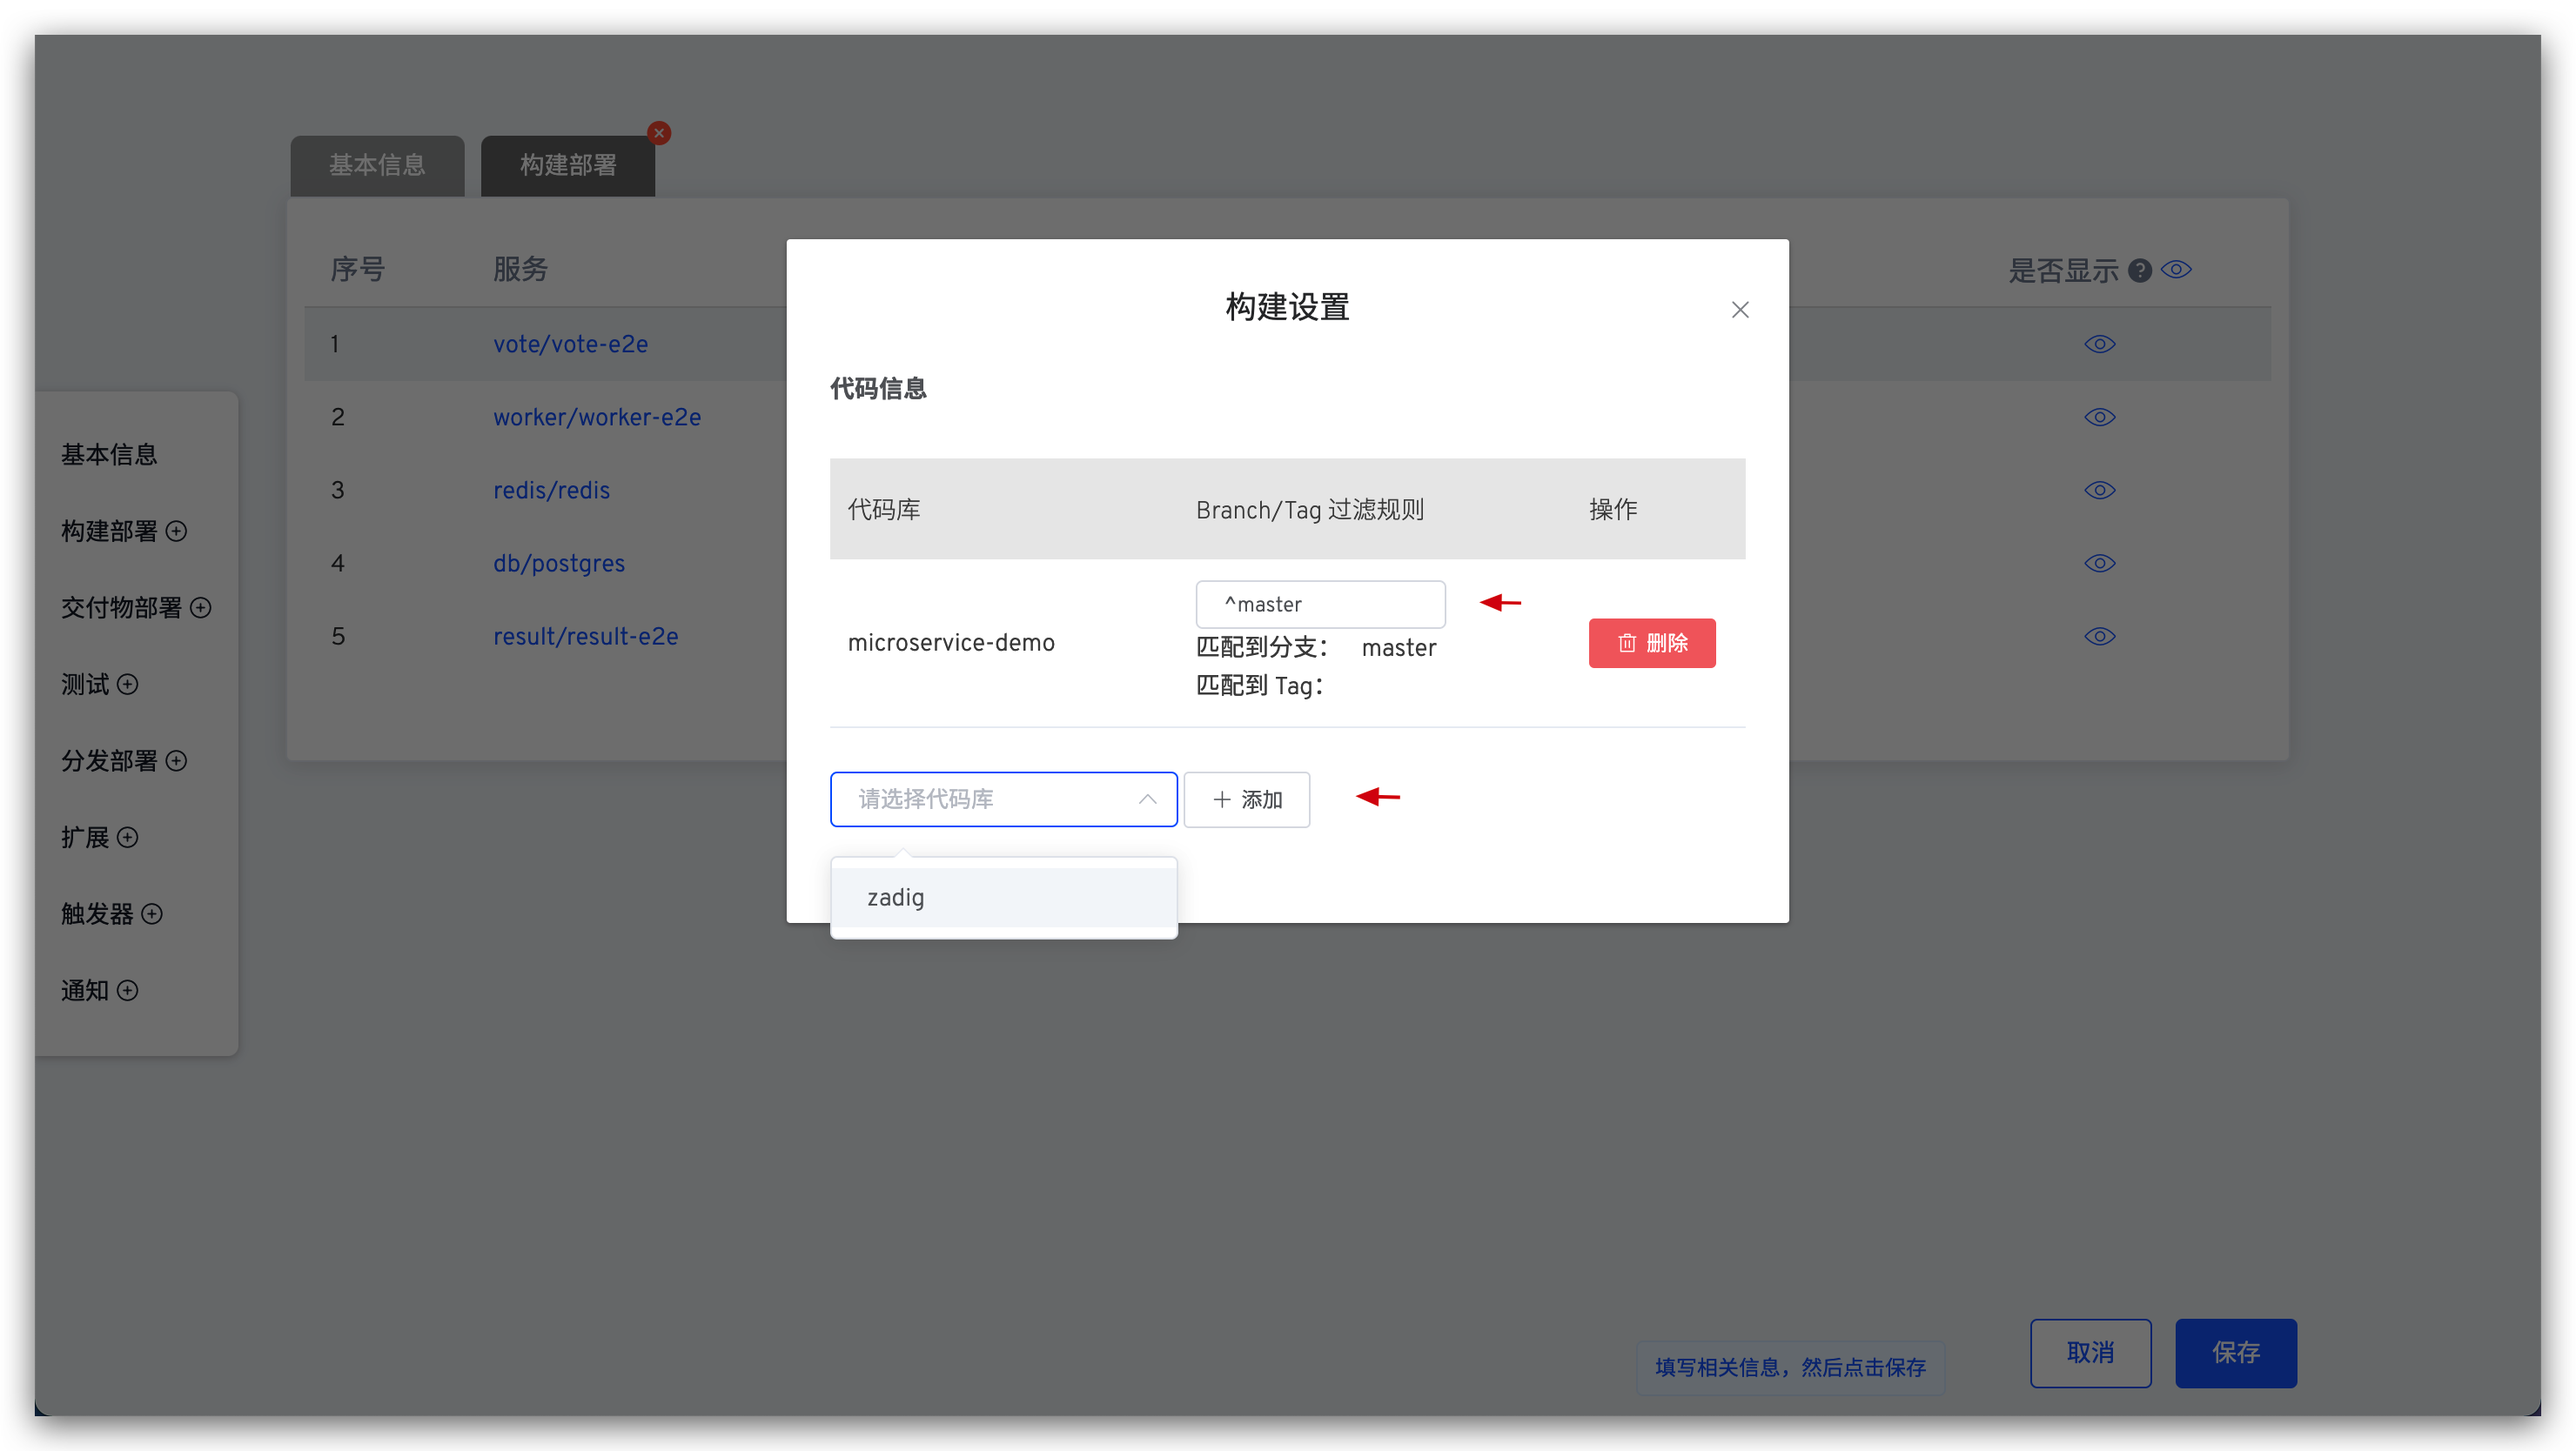
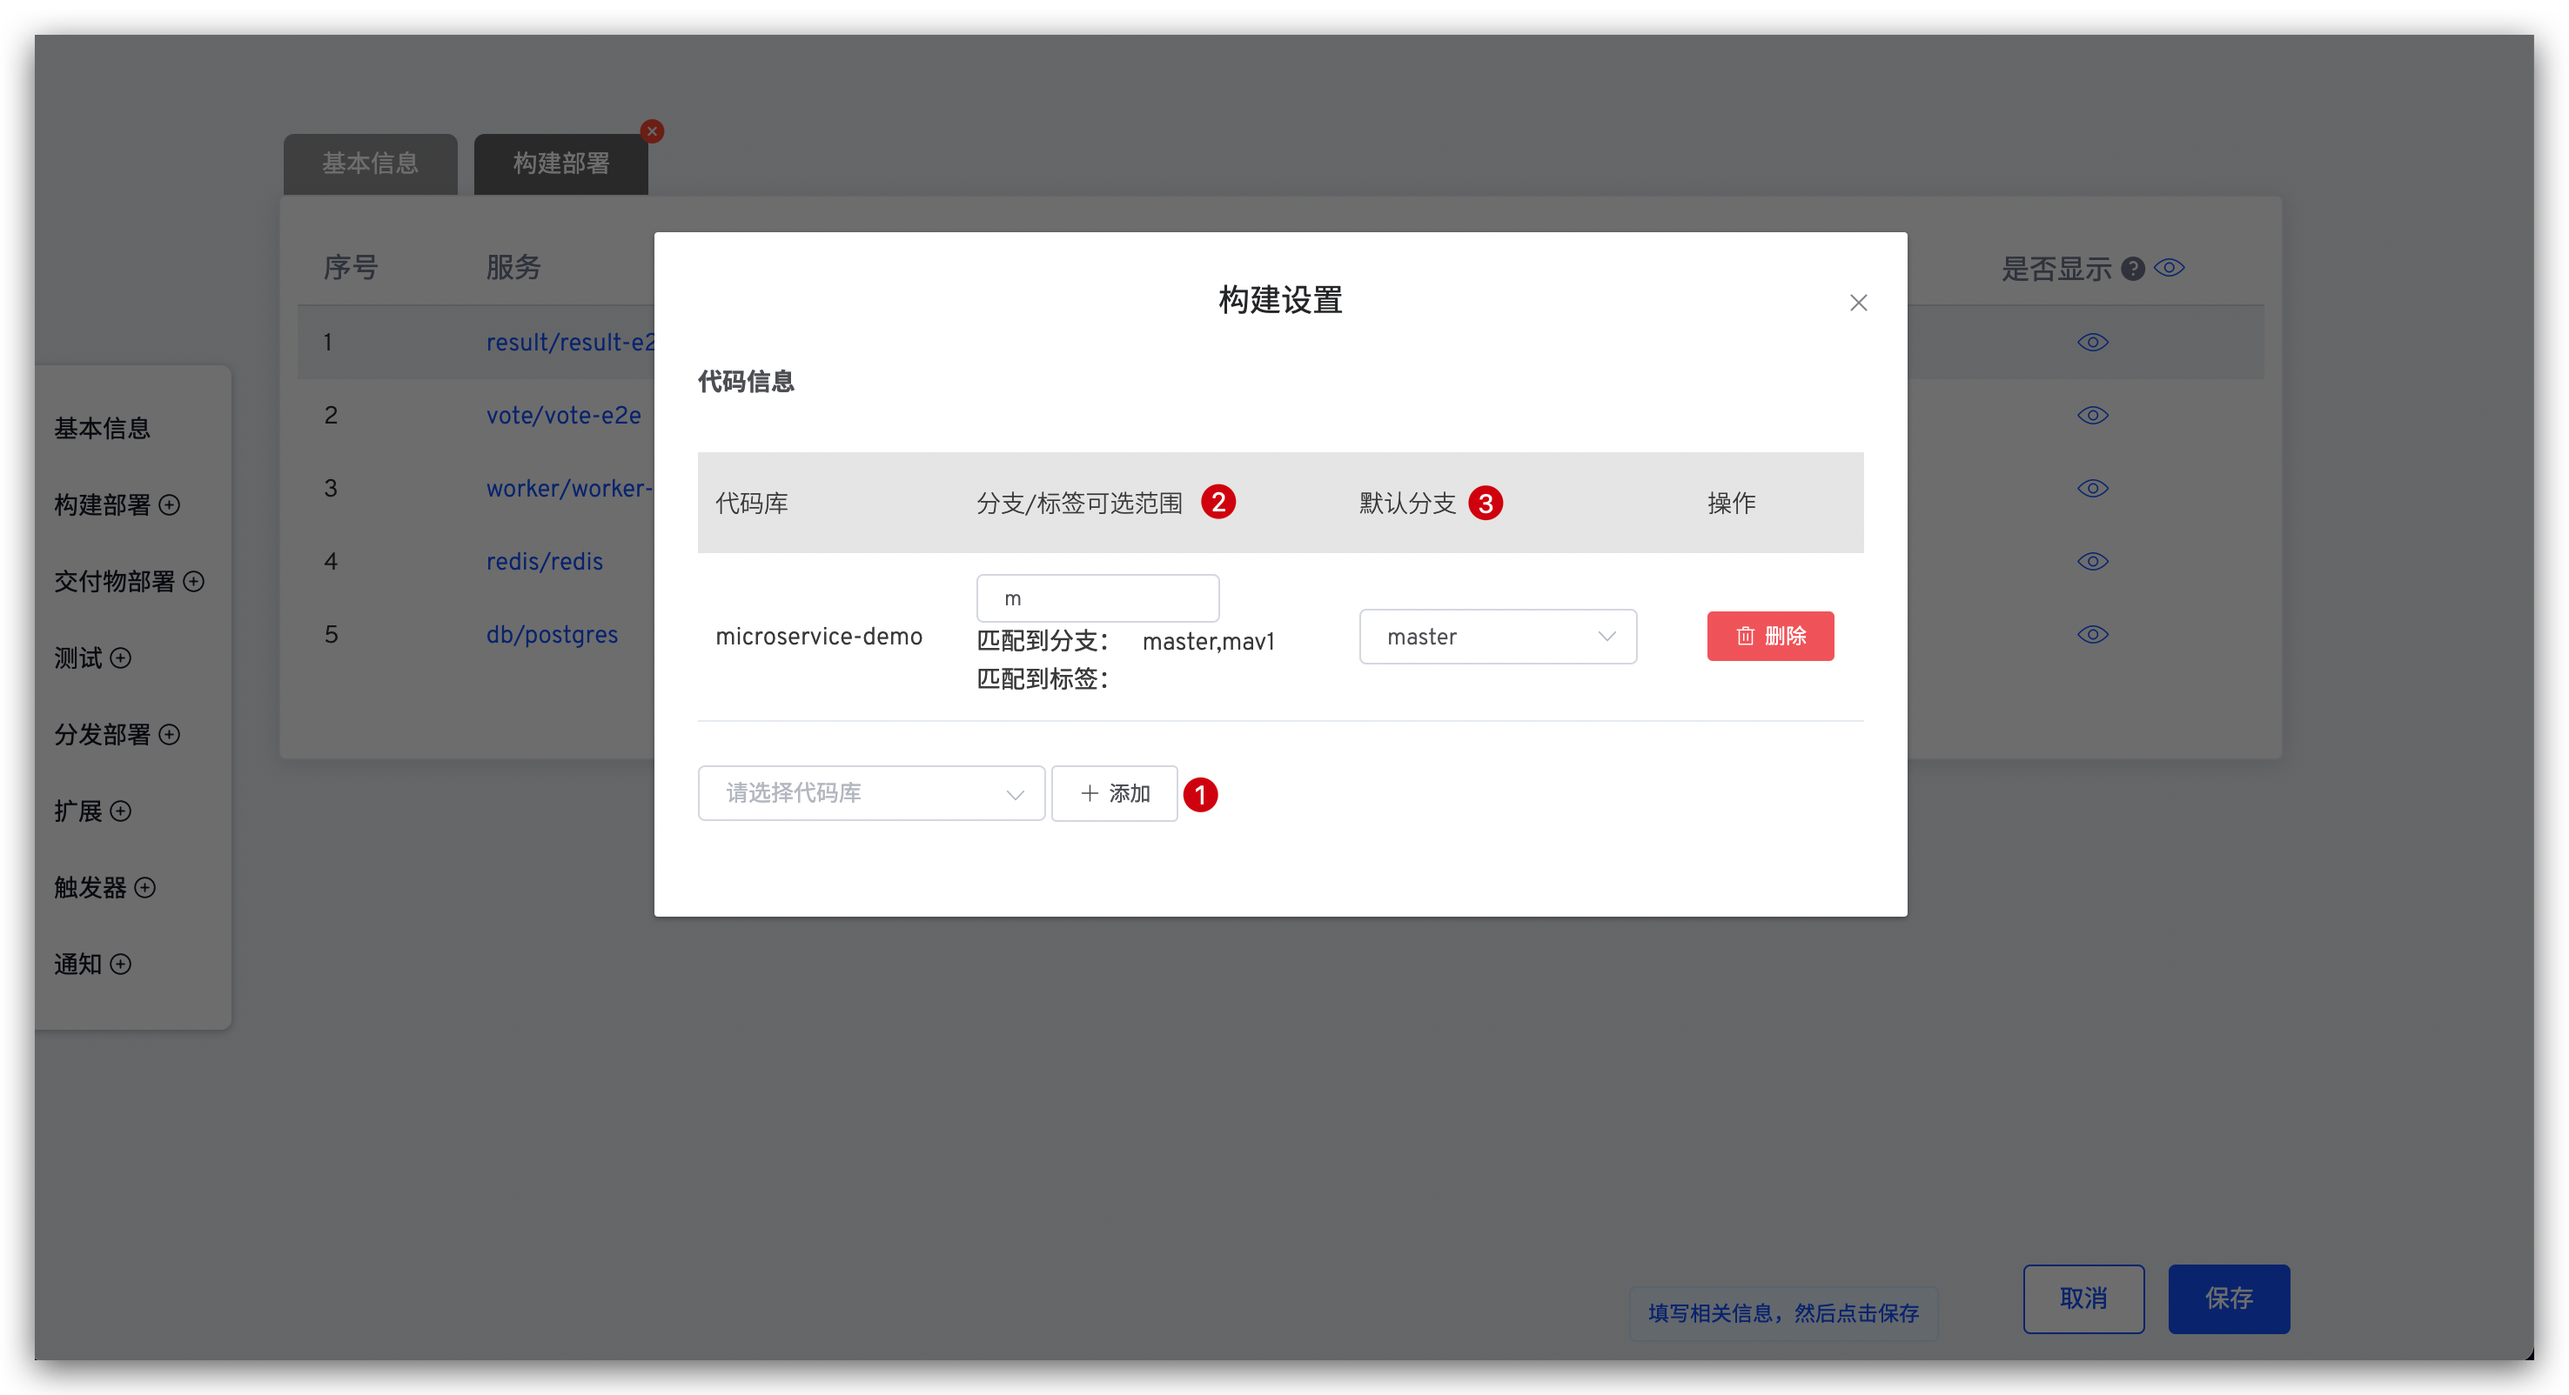
workflow support default branch in build config

diff --git a/dev/04.项目/02.工作流/01.workflow.md b/dev/04.项目/02.工作流/01.workflow.md
@@ -51,11 +51,11 @@ permalink: /dev/project/workflow/
 
 #### 构建设置
 
-选择代码库并添加正则表达式形式的 `Branch/Tag 过滤规则`。
+支持配置工作流时，可选的代码库分支/标签范围，以及指定默认分支。具体操作为：添加代码库 -> 设置正则表达式形式的 `分支/标签可选范围` -> 在匹配到的分支中选择一个作为默认分支。
 
 ![workflow](../_images/workflow_repo_config.png)
 
-保存修改后，在运行工作流时可选择符合正则匹配的 Branch/Tag 对服务进行构建。
+工作流执行时会基于默认配置的代码信息来运行，也可以手动修改分支/标签信息。
 
 ![workflow](../_images/workflow_repo_config_effect.png)
 
@@ -68,7 +68,6 @@ permalink: /dev/project/workflow/
 :::
 
 ![workflow](../_images/workflow_artifact.png)
-
 
 ### 测试
 
